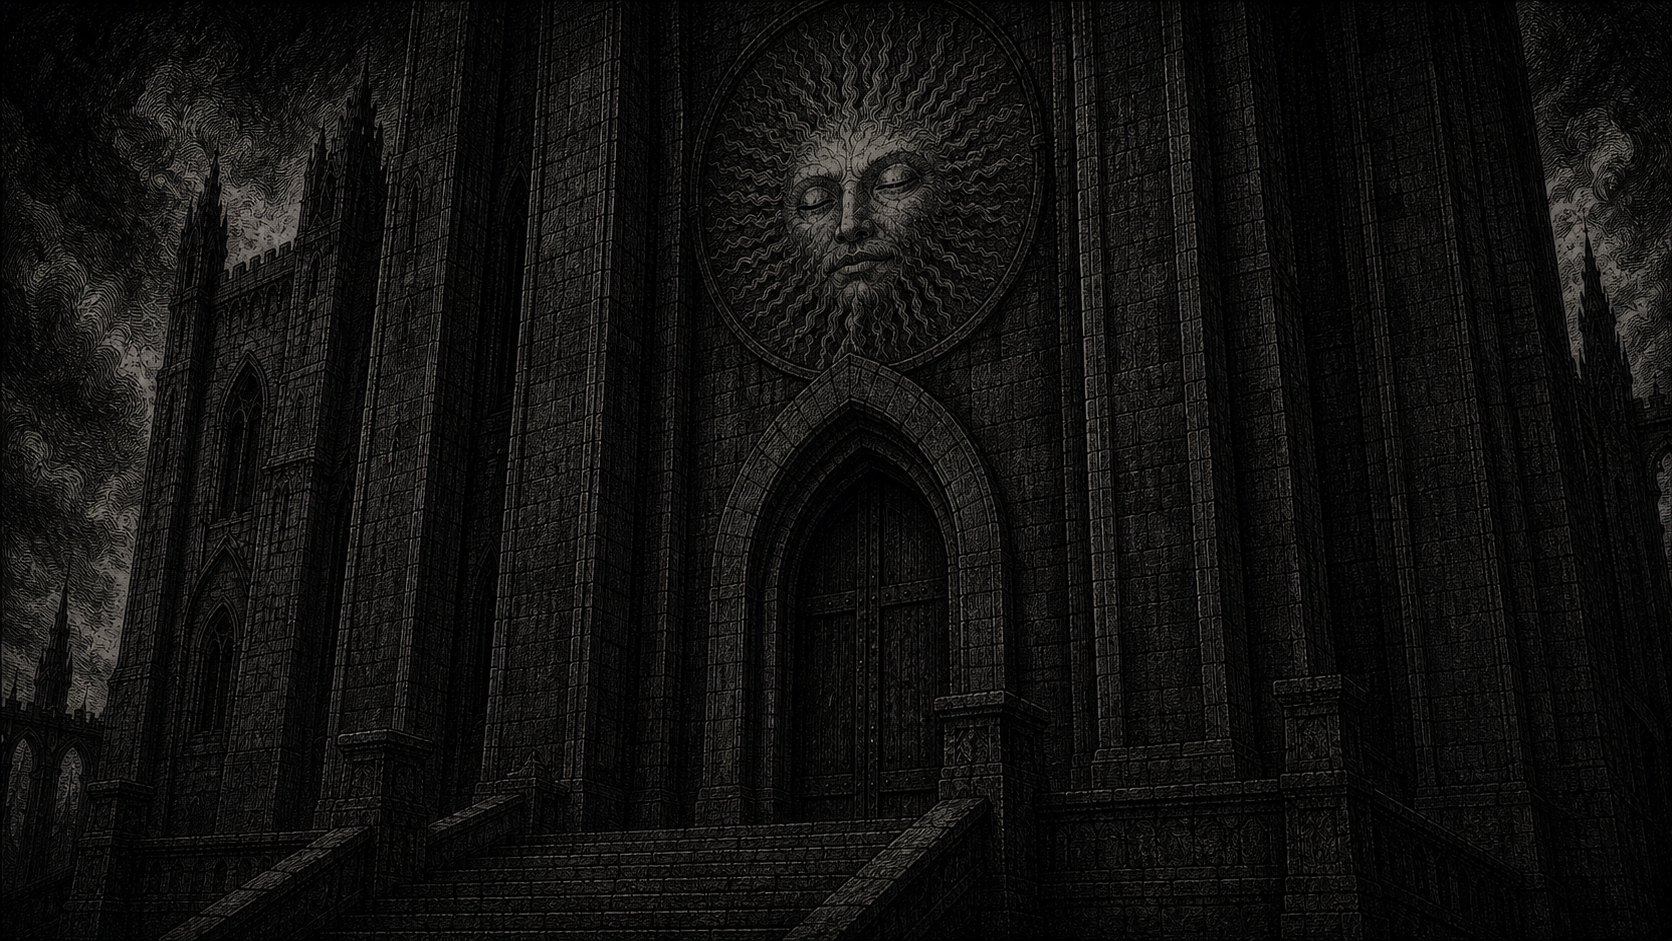
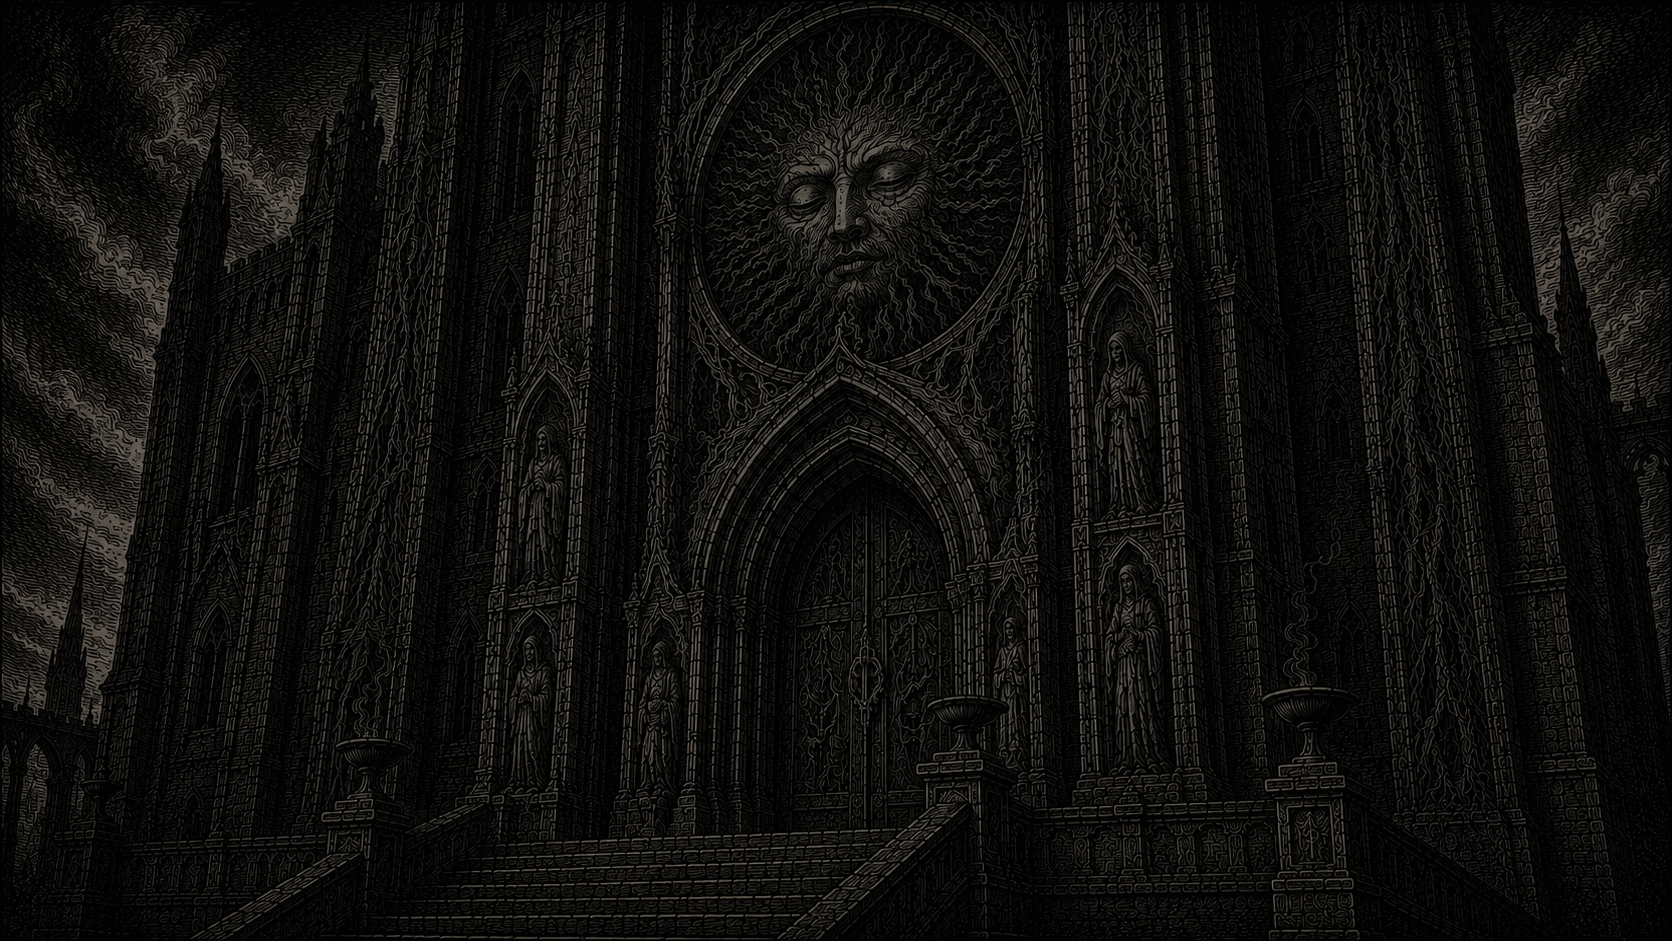
add dream bg

Changed region(s): [[0.0, 0.0, 1.0, 1.0], [0.2488, 0.8629, 0.2799, 0.8937]]

diff --git a/ROADMAP.md b/ROADMAP.md
@@ -25,10 +25,13 @@
 - [x] Написать текст песни Эйлин.
 - [x] Сделать музыку для изучения колодца и переулков Морвейна.
 - [x] Сделать новый задник для переулков Морвейна.
-- [ ] Сделать смешивание цветов в сцене при высоком аспекте.
-- [ ] Добавить экраны при высоком аспекте.
+- [х] Сделать смешивание цветов в сцене при высоком аспекте.
+- [ ] Добавить dream-экраны.
+- [ ] Добавить экраны с подсказками при высоком аспекте.
+- [ ] Добавить туториал.
+- [ ] Добавить музыку в колодце.
 
 ### Дополнительно
 
 - [ ] Подумать, какой звук вставлять после выступления и перед ним.
-- [ ] Добавить туториал.
+